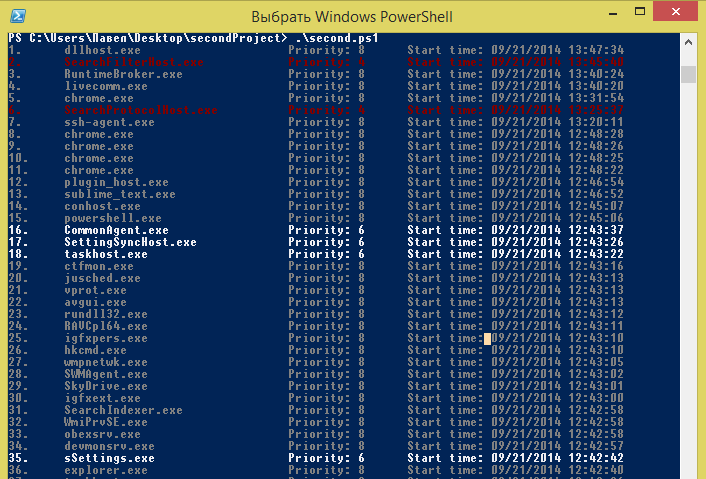
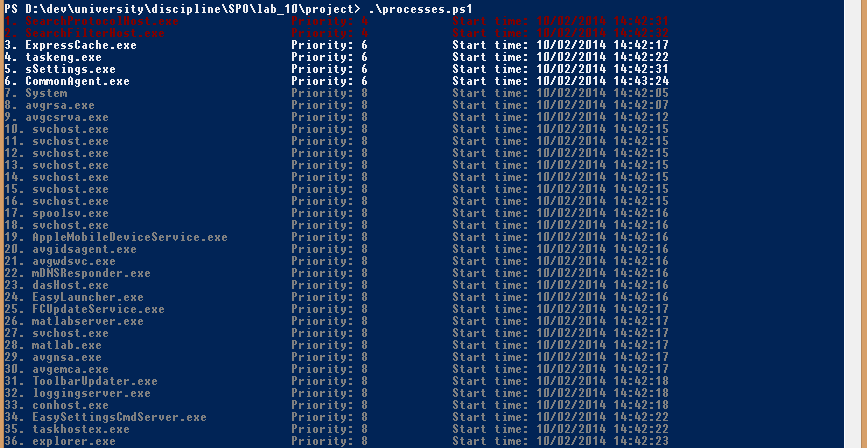
lab_10 SPO updated

diff --git a/discipline/SPO/lab_10/report/content/process.tex b/discipline/SPO/lab_10/report/content/process.tex
@@ -10,12 +10,12 @@
 
 \subsection{Детали реализации программы}
 
-Получим список процессов, затем отсортируем его по времени создания процесса.
+Получим список процессов, отсортируем его по приоритету, затем по времени создания процесса.
 Команды, реализующие данные действия, представлены на рисунке~\ref{lst:get_and_sort_processes}.
 
 \begin{lstlisting}[caption=Получение и сортировка списка запущенных процессов, label=lst:get_and_sort_processes]
   $processes = Get-WmiObject -Class win32_process
-  $sorted_processes = $($processes | Sort-Object CreationDate -Descending)
+  $sorted_processes = $($processes | Sort-Object Priority, CreationDate)
 \end{lstlisting}
 
 Для вывода цветного текста в консоль PowerShell используем команду, представленную на рисунке~\ref{lst:color_text}.
@@ -33,6 +33,14 @@
   \centering
   \includegraphics[width=150mm,height=90mm]{img/process}
   \caption{Вывод списка процессов с использованием командной оболочки PowerShell}\label{fig:process}
+\end{figure}
+
+Вывод статистической информации о процессах продемонстрирован на рисунке~\ref{fig:statistics}.
+
+\begin{figure}[htbp]
+  \centering
+  \includegraphics[width=80mm,height=40mm]{img/statistics}
+  \caption{Вывод статистической информации о процессах \\ с помощью командной оболочки PowerShell}\label{fig:statistics}
 \end{figure}
 
 Исходный текст разработанной программы расположен в приложении~А.
